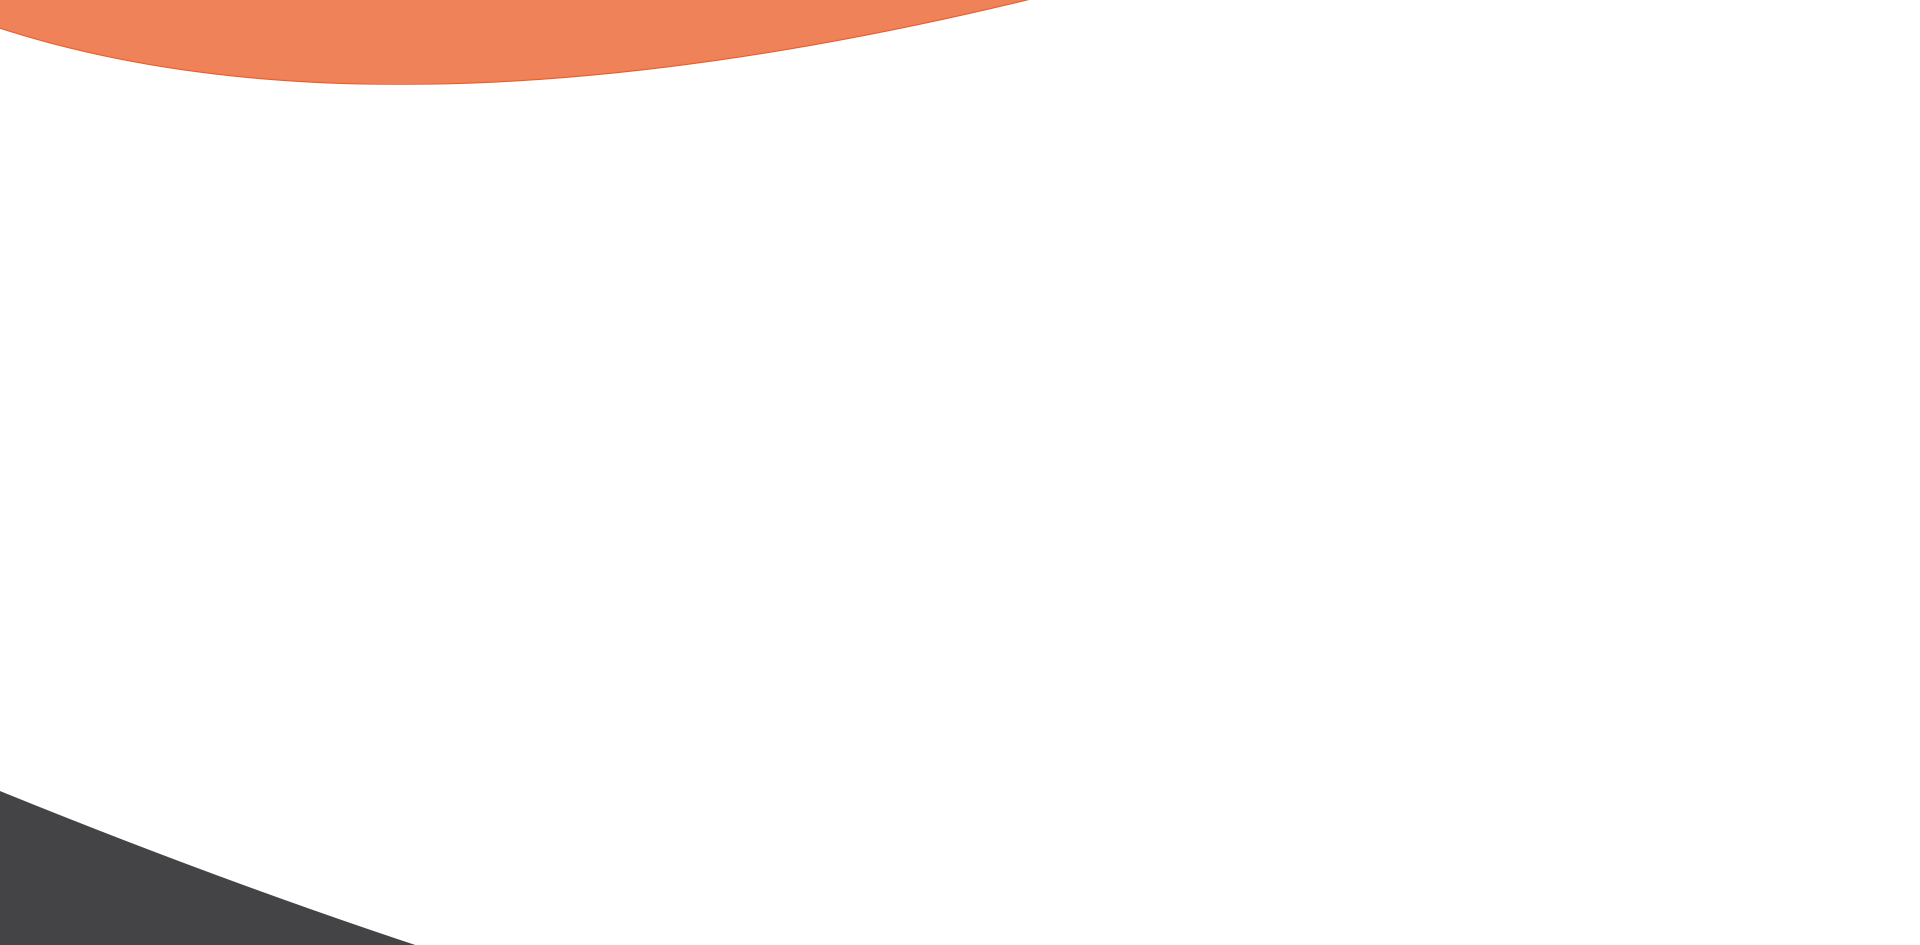
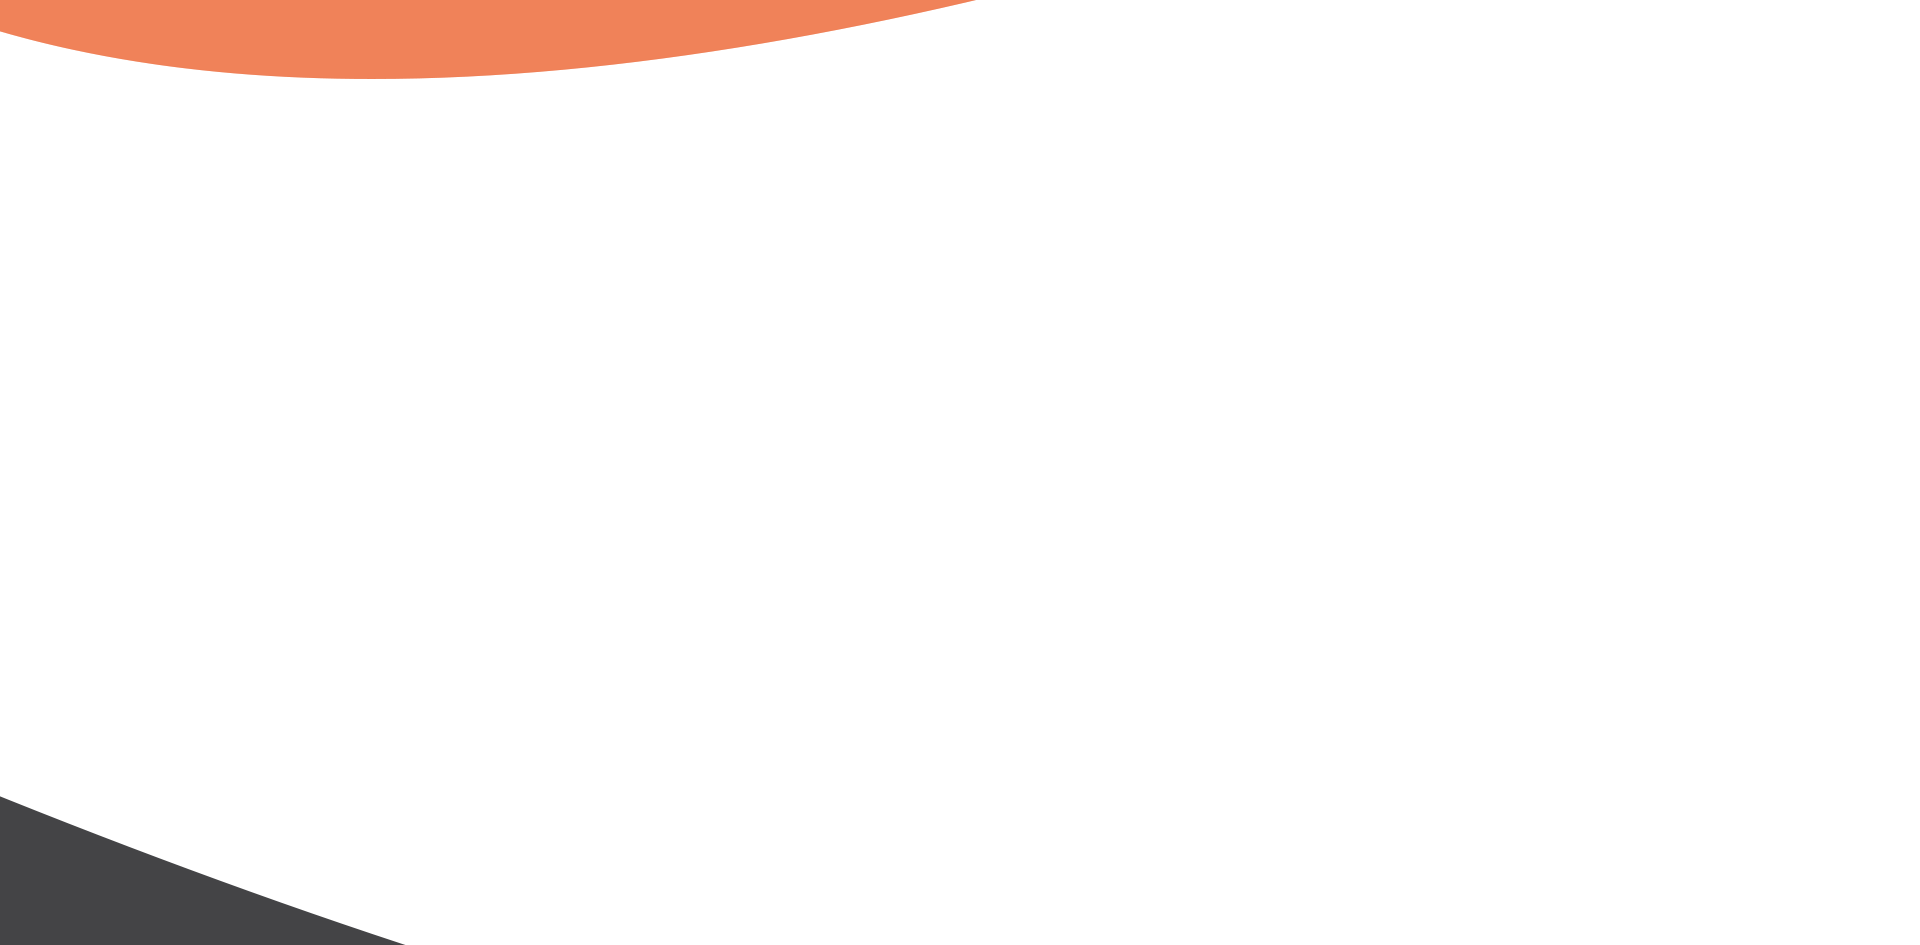
Galeria

diff --git a/css/style.css b/css/style.css
@@ -586,7 +586,7 @@ nav{
 #aliados{
     
     background-image: url(../img/bg3.png);
-    background-position: 76% 100%;
+    background-position: center 100%;
     display: flex;
     flex-direction: column;
     align-items: center;
@@ -621,31 +621,32 @@ nav{
     height: 12em !important;
 }
 
-#contacto{
-    background-image: url(../img/bg4.png);
-}
 
 #contacto{
-    
+    background-color: #444446;
     display: flex;
     background-position: center 0%;
     flex-direction: column;
     align-items: center;
     justify-content:center;
+    height: auto;
+    padding: 10% 0%;
 }
 
-.textContacto{
-  padding-top: 10%;
-}
+
 
 .textContacto div p{
     font-family: "Acumin-Regular";
     font-weight: 200;
     font-size: 1.7rem;
     line-height: 150%;
-    display: flex;
-    align-items: center;
-    margin-left: 2%;
+    white-space: nowrap;
+    margin-left: 20%;
+    
+}
+.textContacto div a{
+  color: white;
+  text-decoration: none;
 }
 
 .textContacto p{
@@ -668,6 +669,64 @@ nav{
 .hda{
     margin-top: 5% !important;
 }
+
+#galeria{
+  background-image: url(../img/bg4.png);
+  background-position: center 0%;
+  display: flex;
+  flex-direction: column;
+  align-items: center;
+  justify-content: center;
+}
+
+#galeria h2{
+  font-family: "Acumin-Medium";
+    color: white;
+    font-size: 5.5em;
+    font-weight: 400;
+    letter-spacing: -0.04em;
+    margin-bottom: 2%;
+    padding-top: 25%;
+    text-align: center;
+}
+
+.wrapper{
+  width: 60%;
+  height: 600px;
+  
+  display: grid;
+  grid-template-columns: repeat(4, 1fr);
+  grid-template-rows: repeat(3, 1fr);
+  grid-gap: 5px;
+  z-index: 500;
+  
+}
+
+.wrapper div{
+  overflow: hidden; /* Para ocultar cualquier parte de la imagen que se salga del contenedor */
+
+}
+
+.wrapper div img{
+  height: 100%;
+  width: 100%;
+  object-fit: cover;
+  border-radius: 10px 10px;
+  transition: 0.4s;
+  cursor: pointer;
+}
+
+.wrapper div img:hover{
+  transform: scale(1.1);
+}
+
+.wrapper .one{
+grid-row: 1/5;
+grid-column: 1;
+}
+
+
+
 
 
 @media (max-width: 1400px){
@@ -701,6 +760,9 @@ nav{
     width: 70%;
   }
 
+  .wrapper{
+    width: 80%;
+  }
   
 }
 
@@ -731,6 +793,13 @@ nav{
     width: 310px;
     object-fit: contain;
     top: 86%;
+  }
+
+  #galeria h2{
+    font-size: 5em;
+  }
+  .wrapper{
+    height: 450px;
   }
 }
 
@@ -916,6 +985,15 @@ section{
 .textContacto h2{
   font-size: 3.5em;
 }
+#galeria h2{
+  font-size: 4em;
+  padding-top: 30%;
+}
+
+.wrapper{
+  width: 90%;
+}
+
 }
 
 @media (max-width: 700px){
@@ -1027,6 +1105,16 @@ section{
   .textContacto h2{
     font-size: 3.5em;
   }
+
+  #galeria h2{
+    font-size: 3.5em;
+    padding-top: 35%;
+  }
+  
+  .wrapper{
+    width: 90%;
+    
+  }
 }
 
 @media (max-width: 500px){
@@ -1095,4 +1183,21 @@ section{
 .textContacto h2{
   font-size: 3em;
 }
+
+#galeria h2{
+  font-size: 3em;
+  padding-top: 40%;
+}
+
+.wrapper{
+  width: 95%;
+  
+}
+}
+
+@media (max-width: 450px){
+  #galeria h2{
+    font-size: 3em;
+    padding-top: 50%;
+  }
 }

diff --git a/index.html b/index.html
@@ -94,13 +94,67 @@
 				</div>
 			</section>
 
+			<section id="galeria">
+				<h2>NUESTROS PRODUCTOS</h2>
+				<div class="wrapper">
+					<div class="one">
+						<img src="./img/g (1).jpg" alt="">
+					</div>
+					
+					<div class="two">
+						<img  src="./img/g (2).jpg" alt="">
+					</div>
+
+					<div class="three">
+						<img src="./img/g (3).jpg" alt="">
+					</div>
+
+					<div class="four">
+						<img src="./img/g (4).jpg" alt="">
+					</div>
+					
+					<div class="five">
+						<img  src="./img/g (5).jpg" alt="">
+					</div>
+
+					<div class="six">
+						<img  src="./img/g (6).jpg" alt="">
+
+					</div>
+
+					<div class="seven">
+						<img  src="./img/g (7).jpg" alt="">
+
+					</div>
+
+					<div class="eight">
+						<img  src="./img/g (8).jpg" alt="">
+
+					</div>
+
+					<div class="nine">
+						<img  src="./img/g (9).jpg" alt="">
+
+					</div>
+
+					<div class="nine">
+						<img  src="./img/g (9).jpg" alt="">
+
+					</div>
+					
+					
+					
+					
+				</div>
+			</section>
+
 
 			<section id="contacto">
 				<div class="textEmpresa textContacto">
 					<h2 data-aos="fade-in" data-aos-duration="600" data-aos-delay="200">CONTACTO</h2>
 					<div style="display: flex; align-items: center; justify-content: center;">
-						<p data-aos="fade-in" data-aos-duration="600" data-aos-delay="400"><span><img src="./img/wpp.png" alt=""></span>xxxxxxxx</p>
-						<p data-aos="fade-in" data-aos-duration="600" data-aos-delay="600"><span><img src="./img/ig.png" alt=""></span>distribuidoravientomejor</p>
+						<a target="_blank" href="https://api.whatsapp.com/send?phone=5491141689173"><p data-aos="fade-in" data-aos-duration="600" data-aos-delay="400"><span><img src="./img/wpp.png" alt=""></span>+54 9 11 4168 9173</p></a>
+						<a target="_blank" href="https://www.instagram.com/distribuidoravientomejor/"><p data-aos="fade-in" data-aos-duration="600" data-aos-delay="600"><span><img src="./img/ig.png" alt=""></span>distribuidoravientomejor</p></a>
 					</div>
 					<p data-aos="fade-in" data-aos-duration="600" data-aos-delay="800"><span><img src="./img/ubi.png" alt=""></span>Martínez Rosas 1343 | Villa Crespo | Buenos Aires | Argentina</p>
 					<p data-aos="fade-in" data-aos-duration="600" data-aos-delay="1000"><span><img src="./img/mail.png" alt=""></span>Ventas@distribuidoravientomejor.com.ar</p>
